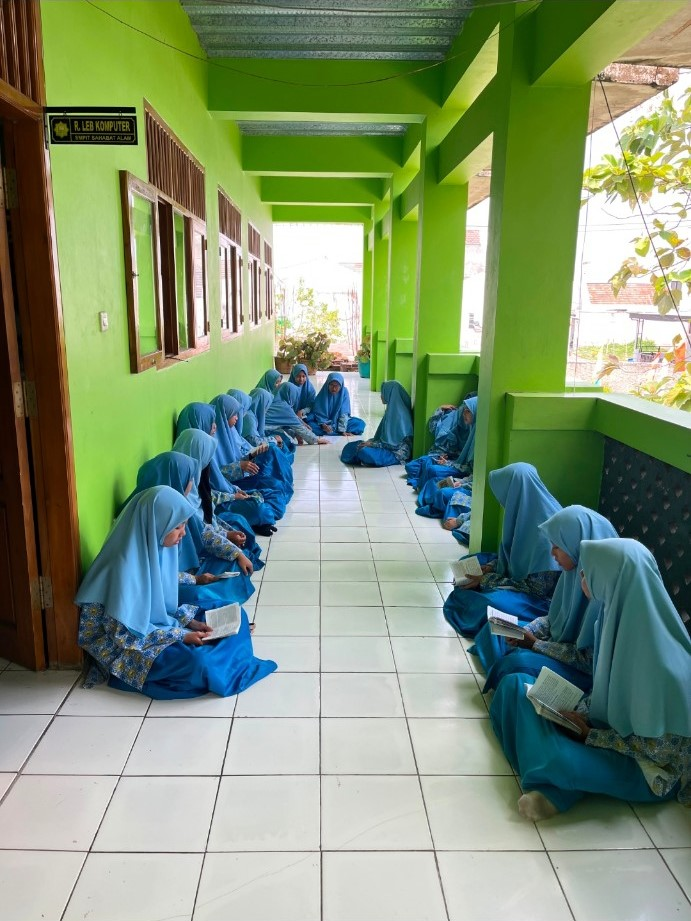
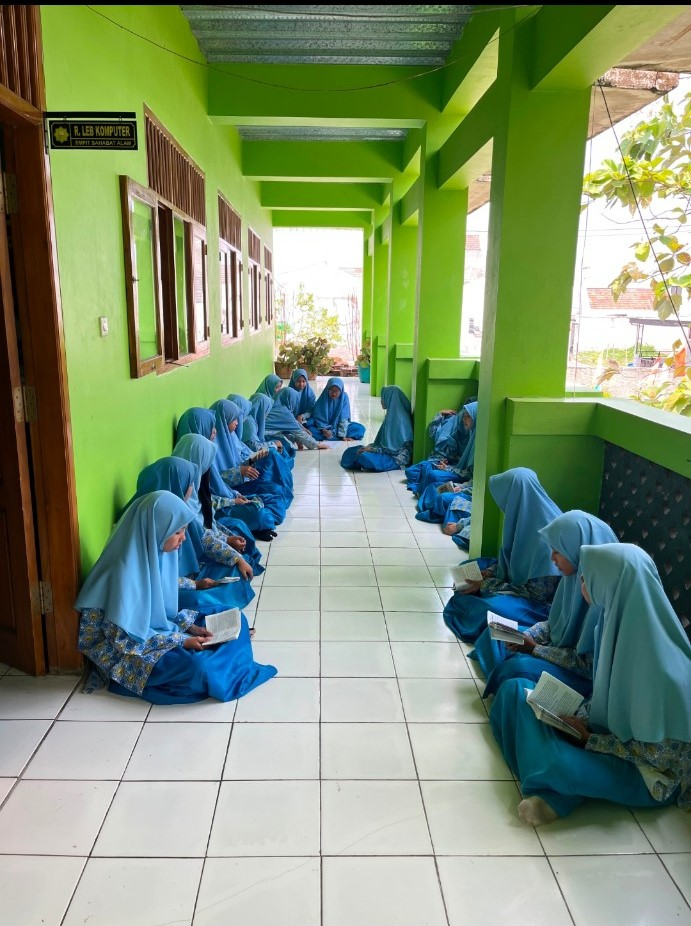
Add files via upload

diff --git a/index.html b/index.html
@@ -70,7 +70,19 @@ background:linear-gradient(transparent,rgba(0,70,30,.92));color:#fff;font-weight
 .video-feature-safe{max-width:1000px;margin:20px auto}
 </style>
 
-<style id="early-bird-note-style">.early-bird-note{margin:14px 0 0;padding:10px 8px 2px;text-align:center}.early-bird-title{font-size:19px;font-weight:900;letter-spacing:.8px;color:#d39b00;line-height:1.1}.early-bird-text{margin-top:3px;font-size:13px;font-weight:700;color:#176b2c;line-height:1.35}</style></head>
+
+<style id="program-gallery-style">
+.program-gallery{margin-top:16px;display:grid;grid-template-columns:repeat(2,minmax(0,1fr));gap:8px;text-align:left}
+.program-gallery-empty{grid-column:1/-1;border:1px dashed #cbd8c6;border-radius:10px;padding:10px;text-align:center;color:#7a887b;font-size:12px;background:#fff}
+.program-gallery-item{border:0;padding:0;background:#fff;border-radius:10px;overflow:hidden;cursor:zoom-in;box-shadow:0 4px 12px rgba(20,92,24,.08)}
+.program-gallery-item img{display:block;width:100%;height:105px;object-fit:cover;transition:transform .25s ease}
+.program-gallery-item:hover img{transform:scale(1.04)}
+.program-gallery-caption{padding:6px 7px;font-size:11px;font-weight:700;color:#214b27;line-height:1.25}
+@media(max-width:950px){.program-gallery-item img{height:120px}}
+@media(max-width:560px){.program-gallery{grid-template-columns:repeat(2,minmax(0,1fr))}}
+</style>
+<style id="early-bird-note-style">.early-bird-note{margin:14px 0 0;padding:10px 8px 2px;text-align:center}.early-bird-title{font-size:19px;font-weight:900;letter-spacing:.8px;color:#d39b00;line-height:1.1}.early-bird-text{margin-top:3px;font-size:13px;font-weight:700;color:#176b2c;line-height:1.35}</style>
+</head>
 <body>
 <div id="pmbOpeningOverlay" class="pmb-opening-overlay" aria-label="Informasi Penerimaan Murid Baru">
   <button class="pmb-opening-close" type="button" aria-label="Tutup">×</button>
@@ -101,9 +113,9 @@ background:linear-gradient(transparent,rgba(0,70,30,.92));color:#fff;font-weight
 }
 </style>
 
-<section id="profil"><div class="wrap about"><div class="photo reveal-img from-left"></div><div><b style="color:var(--g2)">Tentang Kami</b><h2 class="title">Mengenal SMPIT Sahabat Alam</h2><p>SMPIT Sahabat Alam berkomitmen untuk mewujudkan generasi yang Cerdas, Sholeh, Kreatif dan Mandiri.</p><p>Untuk mewujudkan visi tersebut, SMPIT Sahabat Alam mengintegrasikan kurikulum pondok pesantren dengan pendidikan nasional serta muatan Sekolah Berbudaya Lingkungan (SBL), yang meliputi program Boarding School dan Full Day School.</p></div></div></section>
+<section id="profil"><div class="wrap about"><div class="photo reveal-img from-left"></div><div><b style="color:var(--g2)">Tentang Kami</b><h2 class="title">Mengenal SMPIT Sahabat Alam</h2><p>SMPIT Sahabat Alam berkomitmen untuk mewujudkan generasi insan kami, dengan mengembangkan kecerdasan intelektual, emosional, spiritual, sosial dan ekonomi.</p><p>Untuk mewujudkan visi tersebut, SMPIT Sahabat Alam mengintegrasikan kurikulum pondok pesantren dengan pendidikan nasional serta muatan Sekolah Berbudaya Lingkungan (SBL), yang meliputi program Boarding School dan Full Day School.</p></div></div></section>
 <section><div class="wrap"><div class="vision"><div><h2>Visi</h2><blockquote>“Mewujudkan Generasi yang Cerdas, Sholeh, Kreatif dan Mandiri”</blockquote></div><div><h2>Misi</h2><div class="mission"><div><span class="num">1</span><span>Meningkatkan kapasitas pendidik dan tenaga kependidikan yang unggul dengan bertumpu pada keseimbangan intelektual, emosional dan spiritual.</span></div><div><span class="num">2</span><span>Menyediakan sarana pendidikan yang unggul dan bertumpu pada standar kebutuhan.</span></div><div><span class="num">3</span><span>Mewujudkan kegiatan belajar mengajar berbasis sains dan teknologi dengan bertumpu pada keseimbangan intelektual, emosional dan spiritual.</span></div><div><span class="num">4</span><span>Mewujudkan lingkungan pendidikan yang kondusif dan berwawasan lingkungan dengan bertumpu pada prinsip bersih, indah, hijau, dan rindang.</span></div><div><span class="num">5</span><span>Membudayakan bahasa Arab dan Inggris dalam percakapan.</span></div><div><span class="num">6</span><span>Mewujudkan peserta didik yang Hafidz Al-Qur'an Full Day minimal 3 Juz & Boarding School minimal 10 Juz.</span></div><div><span class="num">7</span><span>Memfasilitasi penggalian potensi peserta didik berdasarkan minat dan bakat.</span></div><div><span class="num">8</span><span>Mengembangkan jiwa leadership dan entrepreneurship peserta didik.</span></div></div></div></div></div></section>
-<section id="program"><div class="wrap"><h2 class="title">Program Unggulan</h2><p class="lead">Program pendidikan yang ditampilkan pada brosur SMPIT Sahabat Alam.</p><div class="programs"><div class="card"><div class="icon">📖</div><h3>Education Based on the Qur'an and Hadits</h3><p>Tilawah, murojaah, tahfidz, sholat dhuha, pembiasaan infak dan sedekah, serta akhlak Islami.</p></div><div class="card"><div class="icon">🤝</div><h3>Inclusion Islamic School</h3><p>Bimbingan konseling, pengembangan minat dan bakat, serta pendampingan anak berkebutuhan khusus.</p></div><div class="card"><div class="icon">ع</div><h3>Arabic and English Habituation</h3><p>English conversation, daily vocabulary, muhadasah dan mufradat yaumiyyah.</p></div><div class="card"><div class="icon">🚀</div><h3>Leadership and Entrepreneurship</h3><p>Leader training, student organization, Pramuka, achievement days dan kegiatan kewirausahaan.</p></div><div class="card"><div class="icon">🌱</div><h3>Sekolah Berbudaya Lingkungan (SBL)</h3><p>Daur ulang sampah, kebun hidroponik, tanaman obat, pupuk kompos dan bank sampah.</p></div></div></div></section>
+<section id="program"><div class="wrap"><h2 class="title">Program Unggulan</h2><p class="lead">Program pendidikan yang ditampilkan pada brosur SMPIT Sahabat Alam.</p><div class="programs"><div class="card program-card" data-program="quran"><div class="icon">📖</div><h3>Education Based on the Qur'an and Hadits</h3><p>Tilawah, murojaah, tahfidz, sholat dhuha, pembiasaan infak dan sedekah, serta akhlak Islami.</p><div class="program-gallery" data-gallery-program="quran"><div class="program-gallery-empty">Belum ada dokumentasi</div></div></div><div class="card program-card" data-program="inclusion"><div class="icon">🤝</div><h3>Inclusion Islamic School</h3><p>Bimbingan konseling, pengembangan minat dan bakat, serta pendampingan anak berkebutuhan khusus.</p><div class="program-gallery" data-gallery-program="inclusion"><div class="program-gallery-empty">Belum ada dokumentasi</div></div></div><div class="card program-card" data-program="language"><div class="icon">ع</div><h3>Arabic and English Habituation</h3><p>English conversation, daily vocabulary, muhadasah dan mufradat yaumiyyah.</p><div class="program-gallery" data-gallery-program="language"><div class="program-gallery-empty">Belum ada dokumentasi</div></div></div><div class="card program-card" data-program="leadership"><div class="icon">🚀</div><h3>Leadership and Entrepreneurship</h3><p>Leader training, student organization, Pramuka, achievement days dan kegiatan kewirausahaan.</p><div class="program-gallery" data-gallery-program="leadership"><div class="program-gallery-empty">Belum ada dokumentasi</div></div></div><div class="card program-card" data-program="environment"><div class="icon">🌱</div><h3>Adiwiyata Programs</h3><p>Daur ulang sampah, kebun hidroponik, tanaman obat, pupuk kompos dan bank sampah.</p><div class="program-gallery" data-gallery-program="environment"><div class="program-gallery-empty">Belum ada dokumentasi</div></div></div></div></div></section>
 <section id="ppdb"><div class="wrap"><h2 class="title">Informasi PPDB 2027/2028</h2><div class="info"><div class="panel"><h3>Waktu Pendaftaran</h3><p>📅 <b>Senin–Sabtu</b><br>⏰ <b>08.00–14.00 WIB</b><br>📍 <b>Kantor SMPIT Sahabat Alam</b></p><p>Biaya pendaftaran</p><div class="big">Rp250.000,-</div><a class="btn" href="https://docs.google.com/forms/d/e/1FAIpQLSeKm7PjzB_geLYGV5dZh46S_fk9a0i_iqro5hWJO1VMMEUmCQ/viewform" target="_blank" rel="noopener">Daftar Sekarang →</a><div class="early-bird-note"><div class="early-bird-title">EARLY BIRD</div><div class="early-bird-text">Dapatkan Diskon untuk 20 Pendaftar pertama</div></div></div><div class="panel"><h3>Syarat Pendaftaran</h3><p>• Biaya pendaftaran Rp250.000,-<br>• Mengisi formulir pendaftaran<br>• Fotokopi akta lahir<br>• Fotokopi kartu keluarga<br>• Pas foto 3x4 & 2x3 = 3 lembar<br>• Observasi akademik<br>• Observasi BTQ dan wawancara<br>• Menyertakan sertifikat prestasi (jika ada)</p></div><div class="panel"><h3>Alur Pendaftaran</h3><div class="steps"><div class="step"><div class="circle">01</div><b>Daftar</b><small>Isi formulir</small></div><div class="step"><div class="circle">02</div><b>Berkas</b><small>Lengkapi</small></div><div class="step"><div class="circle">03</div><b>Akademik</b><small>Observasi</small></div><div class="step"><div class="circle">04</div><b>BTQ</b><small>Wawancara</small></div><div class="step"><div class="circle">05</div><b>Seleksi</b><small>Hasil</small></div></div></div></div></div></section>
 <section id="brosur"><div class="wrap"><h2 class="title">Brosur PPDB</h2><p class="lead">Klik gambar untuk melihat brosur dalam ukuran besar.</p><div class="brochures"><div class="brochure"><img class="reveal-img from-left" src="assets/brosur-1.jpg" onclick="openImg(this.src)"><div><h3>Brosur PPDB 1</h3><p>Profil, visi-misi, program unggulan, kegiatan dan informasi sekolah.</p><button class="btn" onclick="openImg('assets/brosur-1.jpg')">Lihat Brosur →</button></div></div><div class="brochure"><img class="reveal-img from-right" src="assets/brosur-2.jpg" onclick="openImg(this.src)"><div><h3>Brosur PPDB 2</h3><p>Waktu pendaftaran, syarat, kegiatan harian, ekstrakurikuler dan kontak.</p><button class="btn" onclick="openImg('assets/brosur-2.jpg')">Lihat Brosur →</button></div></div></div></div></section>
 <section id="galeri"><div class="wrap"><h2 class="title">Aktivitas & Lingkungan Sekolah</h2><div class="gallery">
@@ -299,4 +311,27 @@ document.addEventListener('keydown',(e)=>{if(e.key==='Escape')closeImg()});
 })();
 </script>
 
+
+<script id="program-gallery-script">
+const programGalleryNames={quran:"Education Based on the Qur'an and Hadits",inclusion:"Inclusion Islamic School",language:"Arabic and English Habituation",leadership:"Leadership and Entrepreneurship",environment:"Sekolah Berbudaya Lingkungan (SBL)"};
+let programMode=false,programLightboxItems=[],programCurrent=0;
+function openProgramGallery(items,index){programMode=true;programLightboxItems=items;programCurrent=index;const modal=document.getElementById('modal');modal.classList.add('show');showProgramImage();document.body.style.overflow='hidden'}
+function showProgramImage(){const item=programLightboxItems[programCurrent];const img=document.getElementById('modalImg');img.classList.remove('lightbox-change');void img.offsetWidth;img.src=item.url;document.getElementById('modalCaption').textContent=item.title;document.getElementById('modalCounter').textContent=`${programCurrent+1} / ${programLightboxItems.length}`;img.classList.add('lightbox-change')}
+function nextProgram(){programCurrent=(programCurrent+1)%programLightboxItems.length;showProgramImage()}
+function prevProgram(){programCurrent=(programCurrent-1+programLightboxItems.length)%programLightboxItems.length;showProgramImage()}
+const oldNextImg=nextImg,oldPrevImg=prevImg,oldCloseImg=closeImg;
+nextImg=function(){if(programMode&&programLightboxItems.length){nextProgram()}else oldNextImg()};
+prevImg=function(){if(programMode&&programLightboxItems.length){prevProgram()}else oldPrevImg()};
+closeImg=function(){programMode=false;programLightboxItems=[];oldCloseImg()};
+function renderProgramGallery(items){
+  document.querySelectorAll('[data-gallery-program]').forEach(el=>{
+    const cat=el.dataset.galleryProgram;const list=items.filter(x=>x.category===cat);
+    if(!list.length){el.innerHTML='<div class="program-gallery-empty">Belum ada dokumentasi</div>';return}
+    el.innerHTML=list.map((x,i)=>`<button class="program-gallery-item" type="button" aria-label="Lihat ${escapeHtml(x.title)}"><img src="${x.url}" alt="${escapeHtml(x.title)}" loading="lazy"><div class="program-gallery-caption">${escapeHtml(x.title)}</div></button>`).join('');
+    el.querySelectorAll('.program-gallery-item').forEach((btn,i)=>btn.addEventListener('click',()=>openProgramGallery(list,i)));
+  });
+}
+function escapeHtml(v){return String(v).replace(/[&<>"']/g,c=>({'&':'&amp;','<':'&lt;','>':'&gt;','"':'&quot;',"'":'&#39;'}[c]))}
+(async function loadProgramGallery(){try{const r=await fetch('/api/gallery',{cache:'no-store'});if(!r.ok)return;const d=await r.json();renderProgramGallery(d.items||[])}catch(e){}})();
+</script>
 </body></html>

diff --git a/admin.html b/admin.html
@@ -1,0 +1,15 @@
+<!doctype html><html lang="id"><head><meta charset="utf-8"><meta name="viewport" content="width=device-width,initial-scale=1"><title>Admin Galeri - SMPIT Sahabat Alam</title><style>
+:root{--g:#145c18;--g2:#21852a;--cream:#f5faef;--text:#214b27;--muted:#667466;--red:#b3261e}*{box-sizing:border-box}body{margin:0;font-family:Arial,Helvetica,sans-serif;background:#f7faf5;color:var(--text)}.wrap{width:min(1100px,92%);margin:auto}.top{background:var(--g);color:#fff;padding:22px 0}.topin{display:flex;justify-content:space-between;align-items:center;gap:12px}.top h1{margin:0;font-size:24px}.btn{border:0;border-radius:999px;padding:11px 18px;font-weight:800;cursor:pointer}.green{background:var(--g2);color:#fff}.white{background:#fff;color:var(--g)}.red{background:#fff0ef;color:var(--red)}main{padding:34px 0}.login,.panel{background:#fff;border-radius:18px;padding:26px;box-shadow:0 10px 35px rgba(20,92,24,.09);margin-bottom:20px}label{display:block;font-weight:800;margin:12px 0 6px}input,select{width:100%;padding:12px;border:1px solid #d8e3d5;border-radius:10px;font:inherit}input[type=file]{padding:9px;background:#fafcf8}.grid{display:grid;grid-template-columns:repeat(2,1fr);gap:18px}.program{border:1px solid #e2eadf;border-radius:16px;padding:18px;background:var(--cream)}.program h3{margin:0 0 12px;color:var(--g)}.status{margin:12px 0;font-weight:700}.hidden{display:none}.gallery-admin{display:grid;grid-template-columns:repeat(3,1fr);gap:10px;margin-top:14px}.thumb{background:#fff;border-radius:10px;overflow:hidden;border:1px solid #e1e8df}.thumb img{width:100%;height:130px;object-fit:cover;display:block}.thumb .meta{padding:8px;font-size:12px}.thumb button{margin:0 8px 8px}.public-gallery{display:grid;grid-template-columns:repeat(3,1fr);gap:12px}.pub-card{background:#fff;border-radius:12px;overflow:hidden;border:1px solid #e1e8df;cursor:pointer}.pub-card img{width:100%;height:150px;object-fit:cover}.pub-card div{padding:8px;font-weight:700;font-size:13px}.help{color:var(--muted);font-size:14px}.ok{color:#1b6d26}.err{color:var(--red)}@media(max-width:700px){.grid,.gallery-admin,.public-gallery{grid-template-columns:1fr}.topin{align-items:flex-start;flex-direction:column}}
+</style></head><body><header class="top"><div class="wrap topin"><h1>Admin Galeri SMPIT Sahabat Alam</h1><button id="logout" class="btn white hidden">Keluar</button></div></header><main class="wrap"><section id="loginBox" class="login"><h2>Login Admin</h2><p class="help">Halaman pengelolaan galeri. Hanya akun admin yang dapat mengunggah atau menghapus gambar.</p><form id="loginForm"><label>Username</label><input id="username" autocomplete="username" required><label>Password</label><input id="password" type="password" autocomplete="current-password" required><button class="btn green" type="submit" style="margin-top:14px">Masuk</button><div id="loginStatus" class="status"></div></form></section><section id="adminBox" class="hidden"><div class="panel"><h2>Kelola Galeri Program Unggulan</h2><p class="help">Pilih kategori, masukkan judul gambar, lalu pilih file. Gambar akan tampil di bawah program yang sesuai pada website publik.</p><p class="help">Format: JPG, PNG, WEBP, GIF. Maksimal 4,8 MB per gambar.</p></div><div id="programGrid" class="grid"></div></section></main><script>
+const programs=[['quran',"Education Based on the Qur'an and Hadits"],['inclusion','Inclusion Islamic School'],['language','Arabic and English Habituation'],['leadership','Leadership and Entrepreneurship'],['environment','Sekolah Berbudaya Lingkungan (SBL)']];
+let items=[];
+const esc=s=>String(s).replace(/[&<>'"]/g,c=>({'&':'&amp;','<':'&lt;','>':'&gt;',"'":'&#39;','"':'&quot;'}[c]));
+async function api(url,opt={}){const r=await fetch(url,{credentials:'same-origin',...opt});let d={};try{d=await r.json()}catch{}if(!r.ok)throw new Error(d.error||'Terjadi kesalahan');return d}
+function renderAdmin(){document.getElementById('programGrid').innerHTML=programs.map(([id,name])=>`<div class="program"><h3>${esc(name)}</h3><form data-cat="${id}" class="uploadForm"><label>Judul gambar</label><input name="title" placeholder="Contoh: Kegiatan Tilawah" required><label>Pilih file gambar</label><input name="file" type="file" accept="image/jpeg,image/png,image/webp,image/gif" required><button class="btn green" type="submit" style="margin-top:12px">+ Masukkan Gambar</button><div class="status formStatus"></div></form><div class="gallery-admin">${items.filter(x=>x.category===id).map(x=>`<div class="thumb"><img src="${x.url}" alt="${esc(x.title)}"><div class="meta">${esc(x.title)}</div><button class="btn red deleteBtn" data-id="${x.id}">Hapus</button></div>`).join('')}</div></div>`).join('');document.querySelectorAll('.uploadForm').forEach(f=>f.addEventListener('submit',upload));document.querySelectorAll('.deleteBtn').forEach(b=>b.addEventListener('click',del));}
+async function load(){const d=await api('/api/gallery');items=d.items||[];renderAdmin()}
+async function upload(e){e.preventDefault();const f=e.currentTarget, status=f.querySelector('.formStatus');status.textContent='Mengunggah...';status.className='status formStatus';const data=new FormData(f);data.append('category',f.dataset.cat);try{await api('/api/gallery',{method:'POST',body:data});status.textContent='Gambar berhasil ditambahkan.';status.classList.add('ok');f.reset();await load()}catch(err){status.textContent=err.message;status.classList.add('err')}}
+async function del(e){if(!confirm('Hapus gambar ini dari galeri?'))return;try{await api('/api/gallery/delete/'+e.currentTarget.dataset.id,{method:'DELETE'});await load()}catch(err){alert(err.message)}}
+async function checkSession(){const d=await api('/api/admin/status');return d.authenticated===true}
+async function init(){try{if(await checkSession()){document.getElementById('loginBox').classList.add('hidden');document.getElementById('adminBox').classList.remove('hidden');document.getElementById('logout').classList.remove('hidden');await load()}else{document.getElementById('loginBox').classList.remove('hidden');document.getElementById('adminBox').classList.add('hidden');document.getElementById('logout').classList.add('hidden')}}catch{document.getElementById('loginBox').classList.remove('hidden');document.getElementById('adminBox').classList.add('hidden')}}
+document.getElementById('loginForm').addEventListener('submit',async e=>{e.preventDefault();const s=document.getElementById('loginStatus');s.textContent='Memeriksa...';try{await api('/api/admin/login',{method:'POST',headers:{'Content-Type':'application/json'},body:JSON.stringify({username:document.getElementById('username').value,password:document.getElementById('password').value})});await init()}catch(err){s.textContent=err.message;s.className='status err'}});document.getElementById('logout').addEventListener('click',async()=>{await api('/api/admin/logout',{method:'POST'});location.reload()});init();
+</script></body></html>
